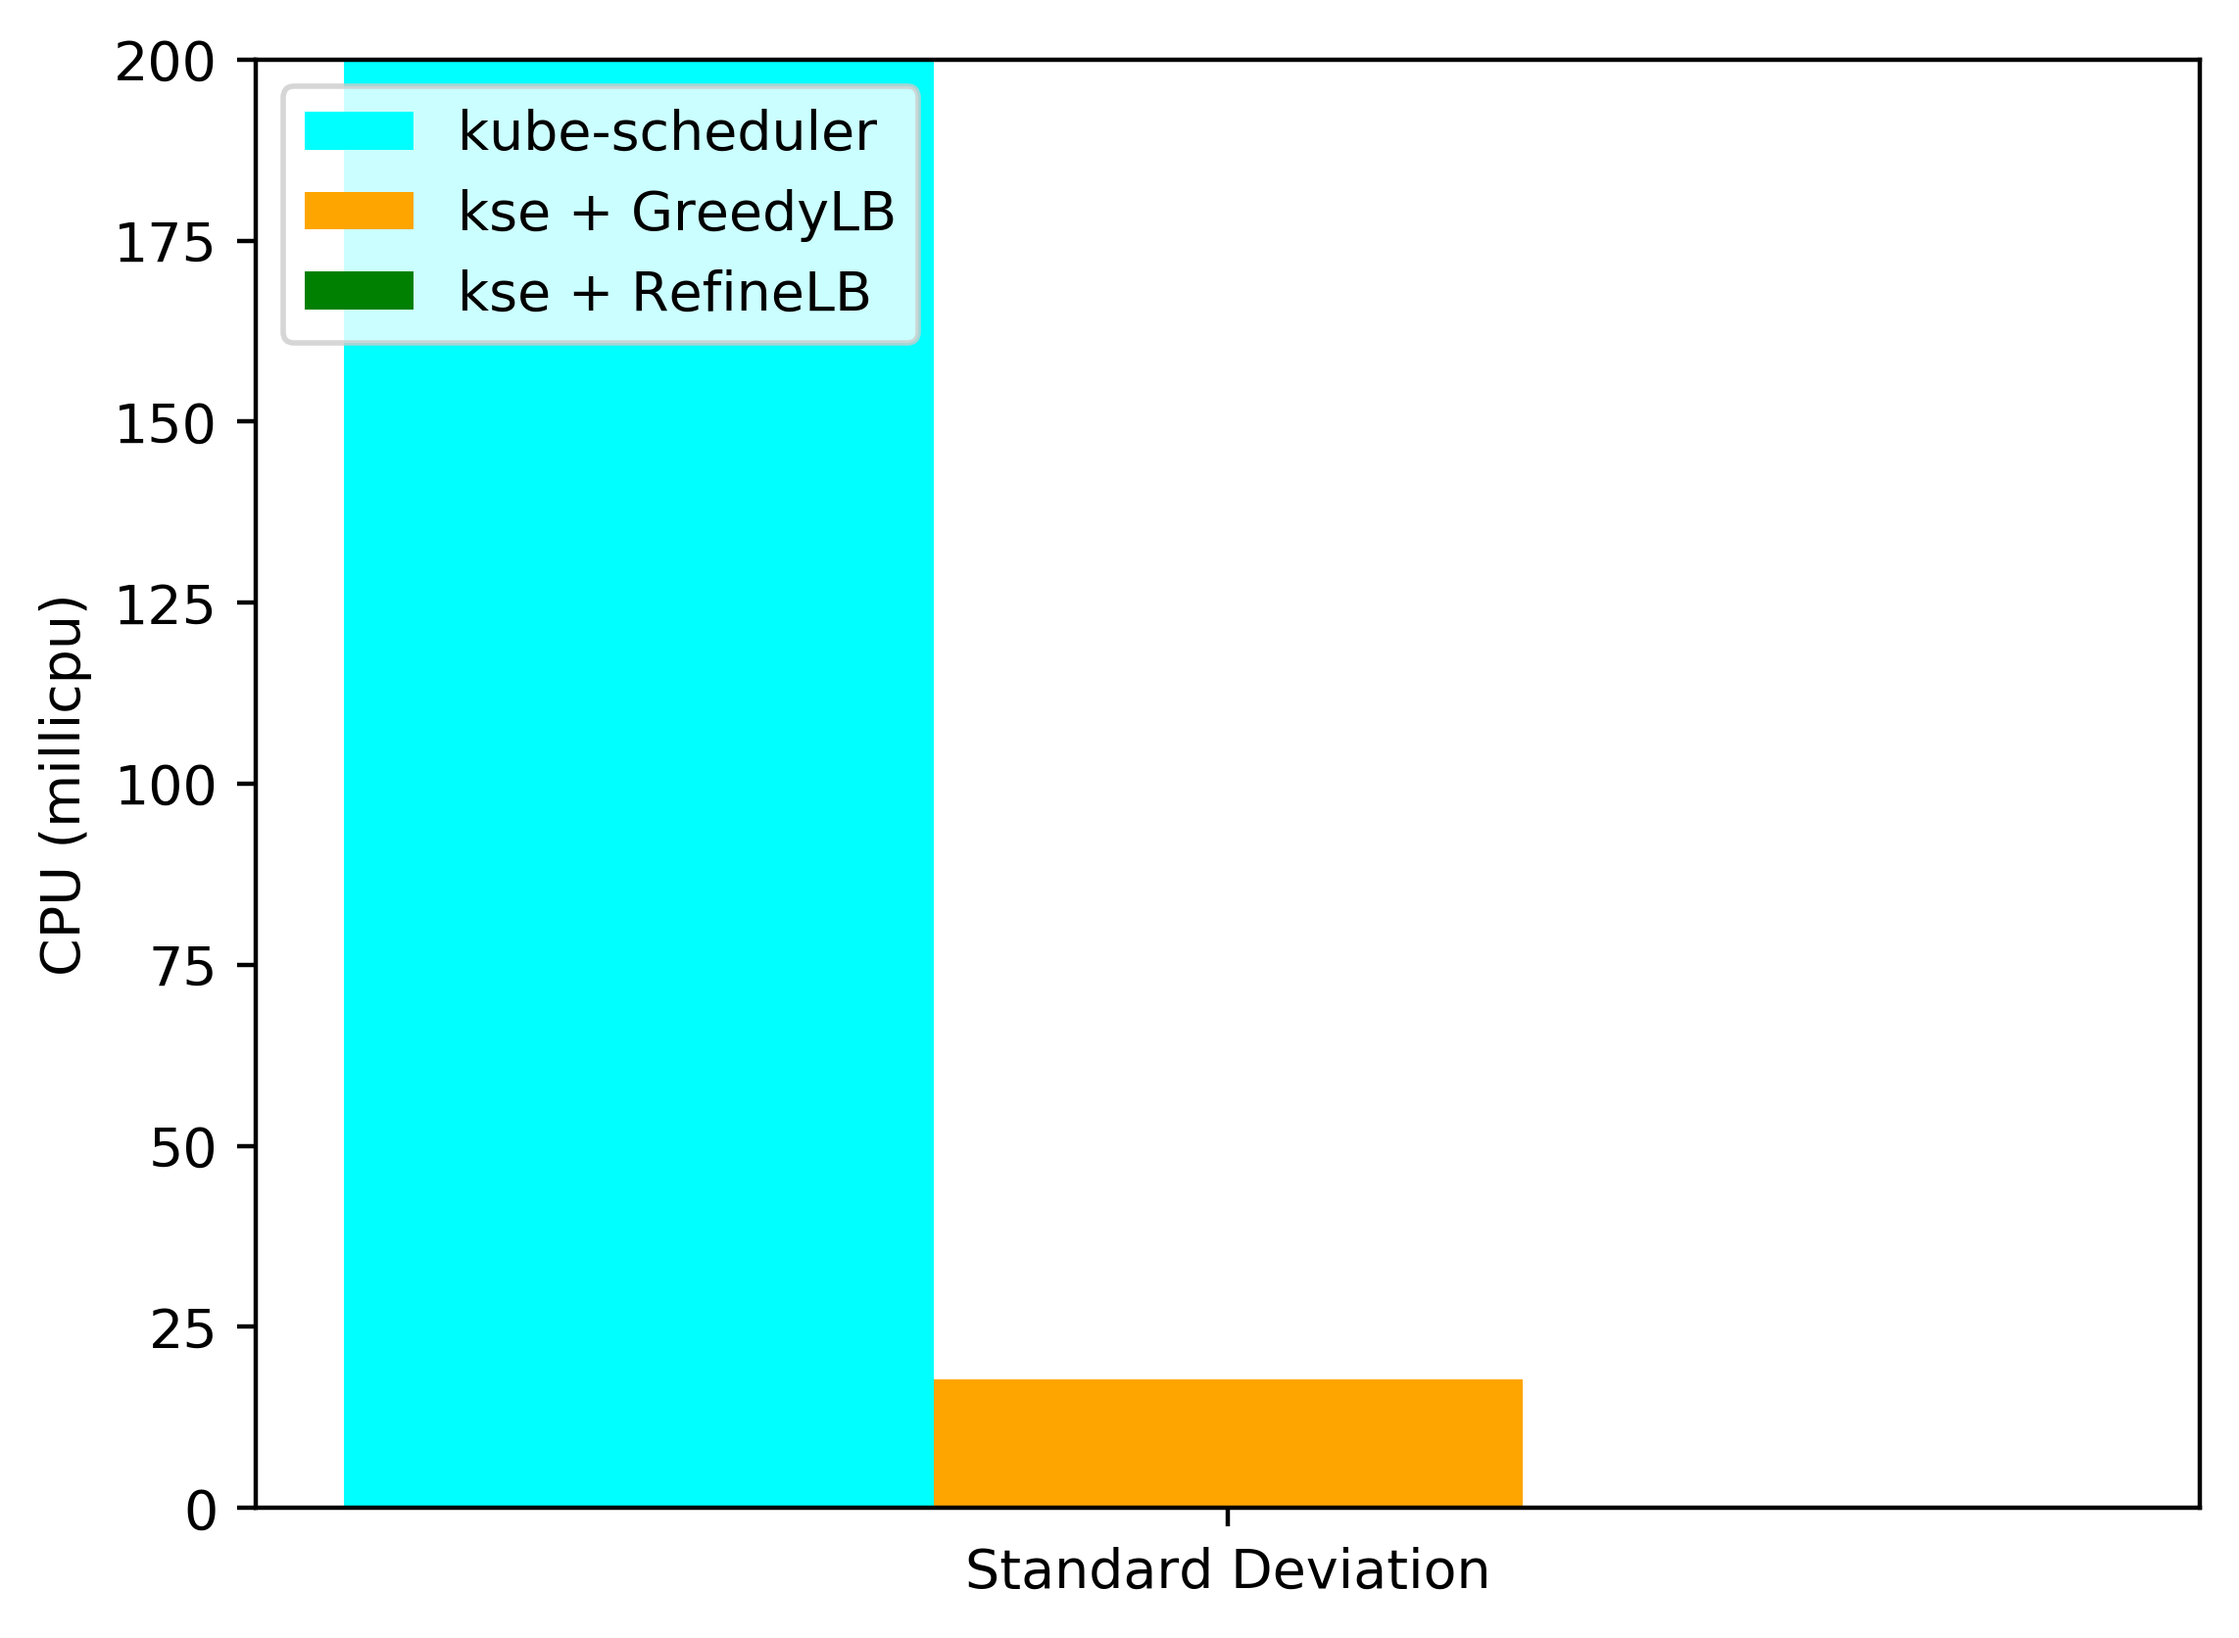
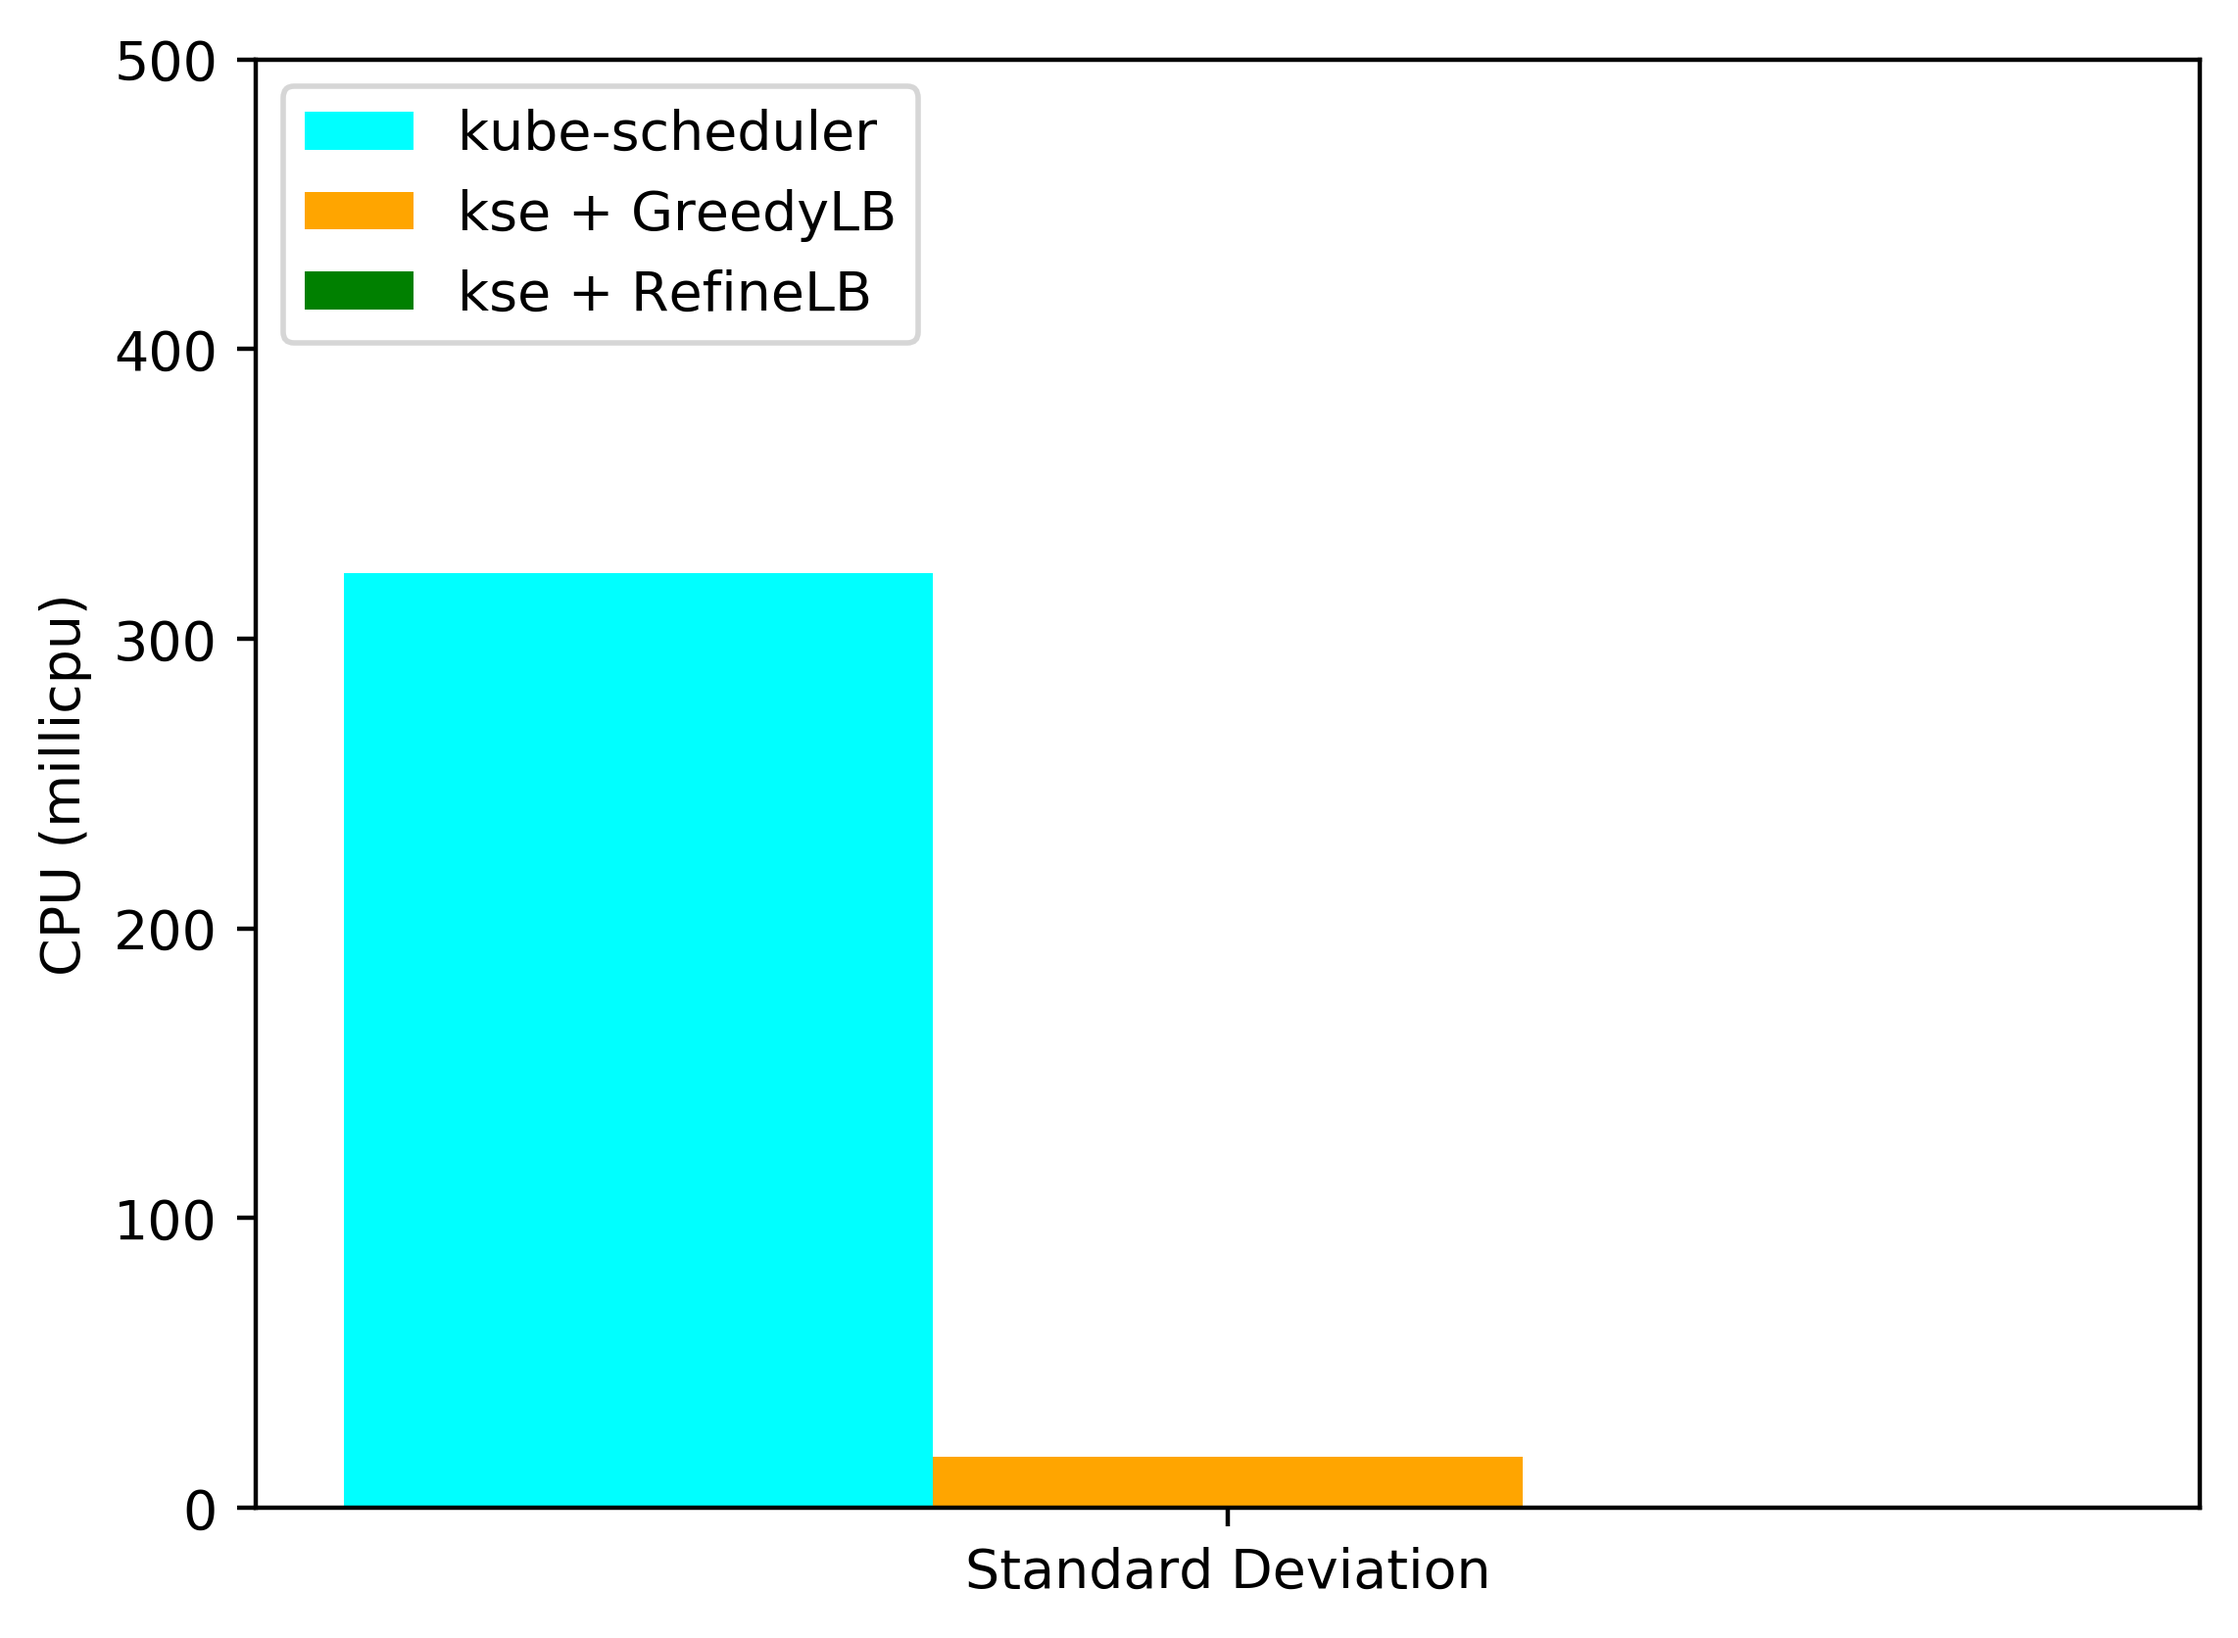
update

diff --git a/sd_graphics.py b/sd_graphics.py
@@ -9,7 +9,7 @@ def save_graphic(value1, value2, value3, metric, filename, legend):
     plt.ylim(0, 200)
     plt.ylabel('memory (MB)')
   elif metric == 'cpu':
-    plt.ylim(0, 200)
+    plt.ylim(0, 500)
     plt.ylabel('CPU (millicpu)')
 
   x = np.arange(1)
